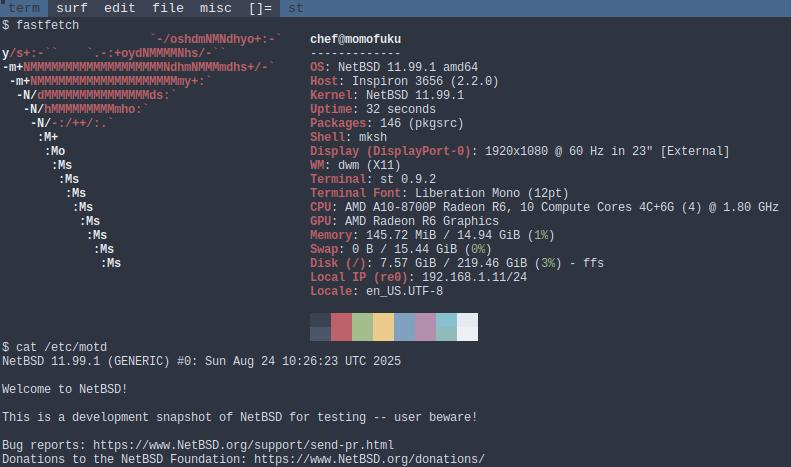
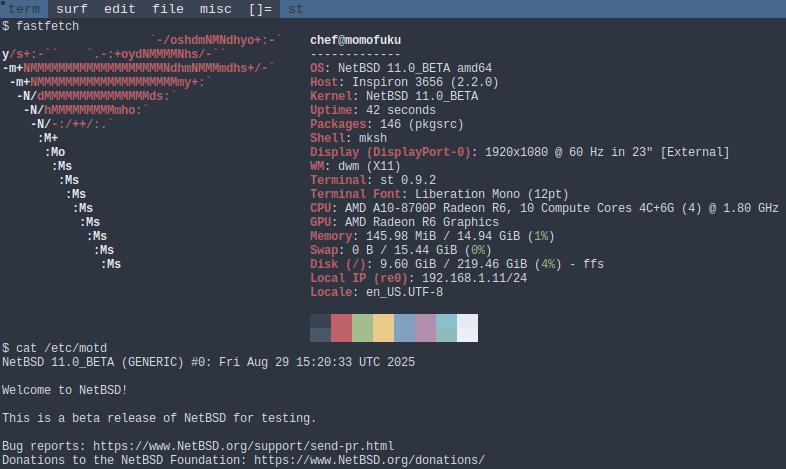
adds and tweaks

diff --git a/README.md b/README.md
@@ -1,5 +1,4 @@
-NetBSD momofuku 11.99.1 NetBSD 11.99.1 (GENERIC)
-
+NetBSD momofuku 11.0_BETA NetBSD 11.0_BETA (GENERIC) #0
 
 
 
